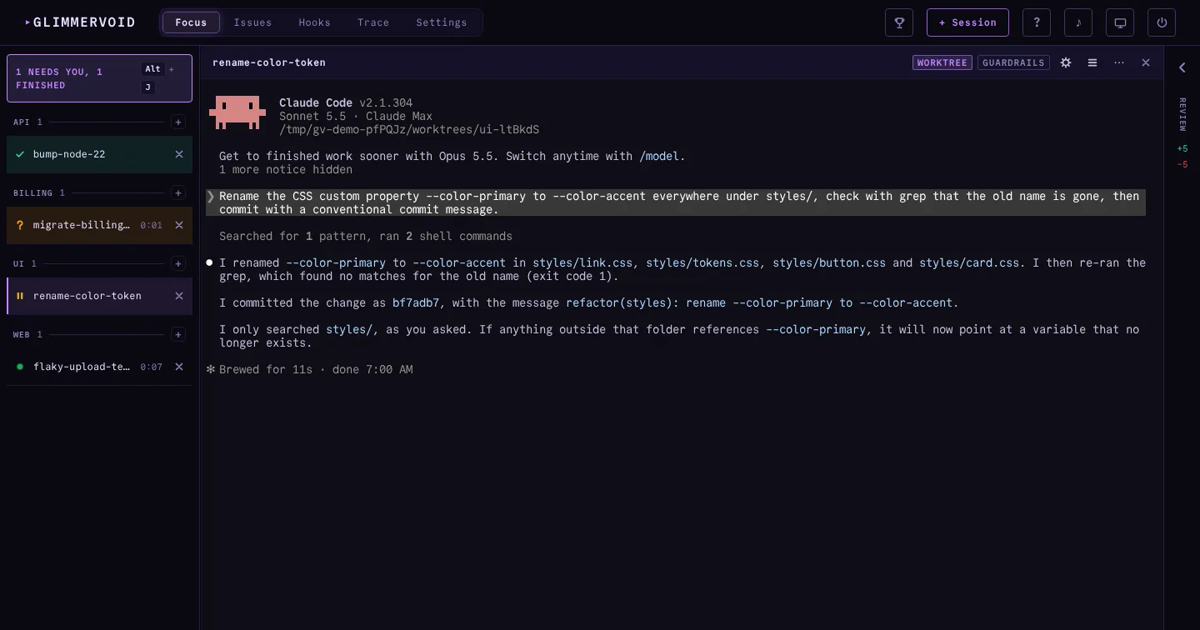
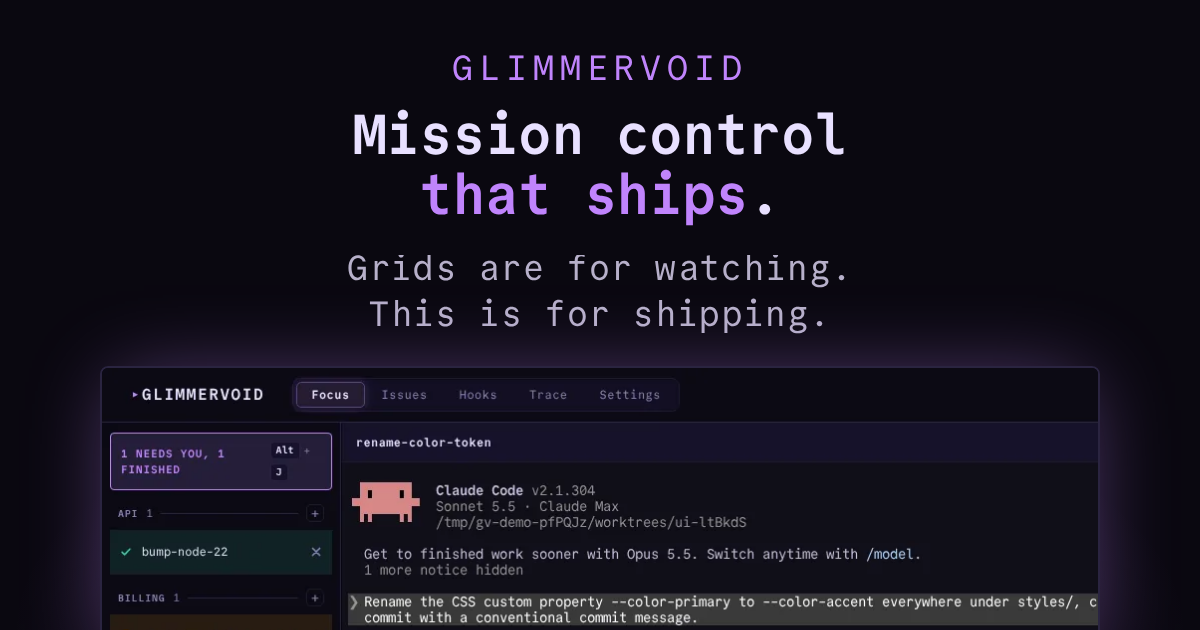
feat(site): replace the blurry link preview with a readable card
Shared glimmervoid.dev links showed the whole dashboard shrunk to
1200x630, where nothing could be read. The new card leads with the
homepage headline and lede in CommitMono, over a 1:1 crop of the real
dashboard hero frame so the UI stays sharp. Text sits inside the
centered square that chat apps crop link cards to. marketing/social/
holds the brand, template, manifest and crop to re-render it with the
social-images skill, reusing the fonts in assets/fonts/.

Rejected: copying the CommitMono fonts and OFL into marketing/social/fonts | duplicates assets/fonts and the license text fails the lexicon check
Rejected: two-column text-beside-screenshot layout | text outside the centered square is cut by square link-card crops
Constraint: lint-gate fails on pre-existing svg title errors in site/src/components/Status.astro:26 and Zen.astro:47, untouched here
Constraint: backend-auto-resume deferral test failed once in the full suite under low memory, passes 17/17 alone
Confidence: high
Scope-risk: narrow

Changed region(s): [[0.0, 0.0, 0.9867, 1.0], [0.74, 0.4524, 0.8017, 0.4825]]

diff --git a/marketing/social/templates/link-card.html b/marketing/social/templates/link-card.html
@@ -1,0 +1,34 @@
+<!doctype html>
+<html lang="en" data-template="hook">
+<head>
+<meta charset="utf-8">
+<style>
+* { box-sizing: border-box; }
+html, body { margin: 0; width: var(--canvas-width, 600px); height: var(--canvas-height, 315px); overflow: hidden; }
+body {
+  background: radial-gradient(ellipse 70% 60% at 50% 100%, color-mix(in srgb, var(--brand-accent) 22%, transparent), transparent 70%), var(--brand-background);
+  color: var(--brand-ink); font-family: var(--brand-body-family), monospace; font-weight: var(--brand-body-weight, 400);
+}
+main { position: absolute; inset: 0 var(--safe-right) 0 var(--safe-left); padding-top: calc(var(--canvas-height) * .075); display: flex; flex-direction: column; align-items: center; text-align: center; gap: calc(var(--canvas-height) * .03); }
+p, h1 { margin: 0; text-wrap: balance; }
+.eyebrow { font-size: var(--min-text-size); letter-spacing: .14em; text-transform: uppercase; color: var(--brand-accent); }
+h1 { font-family: var(--brand-display-family), monospace; font-weight: var(--brand-display-weight, 700); font-size: calc(var(--min-text-size) * 1.6); line-height: 1.08; letter-spacing: -0.02em; }
+h1 em { font-style: normal; color: var(--brand-accent); }
+.subline { font-size: var(--min-text-size); line-height: 1.3; color: color-mix(in srgb, var(--brand-ink) 78%, var(--brand-background)); }
+.window {
+  position: absolute; left: 50%; bottom: calc(var(--canvas-height) * -.06); transform: translateX(-50%);
+  width: 500px; border: 1px solid #2a2440; border-radius: 4px; overflow: hidden;
+  box-shadow: 0 0 40px -8px color-mix(in srgb, var(--brand-accent) 45%, transparent);
+}
+.window img { display: block; width: 100%; height: auto; }
+</style>
+</head>
+<body>
+<main>
+<p class="eyebrow" data-slot="eyebrow"></p>
+<h1>Mission control <em>that ships</em>.</h1>
+<p class="subline" data-slot="subline"></p>
+</main>
+<div class="window"><img data-slot="image" alt=""></div>
+</body>
+</html>
